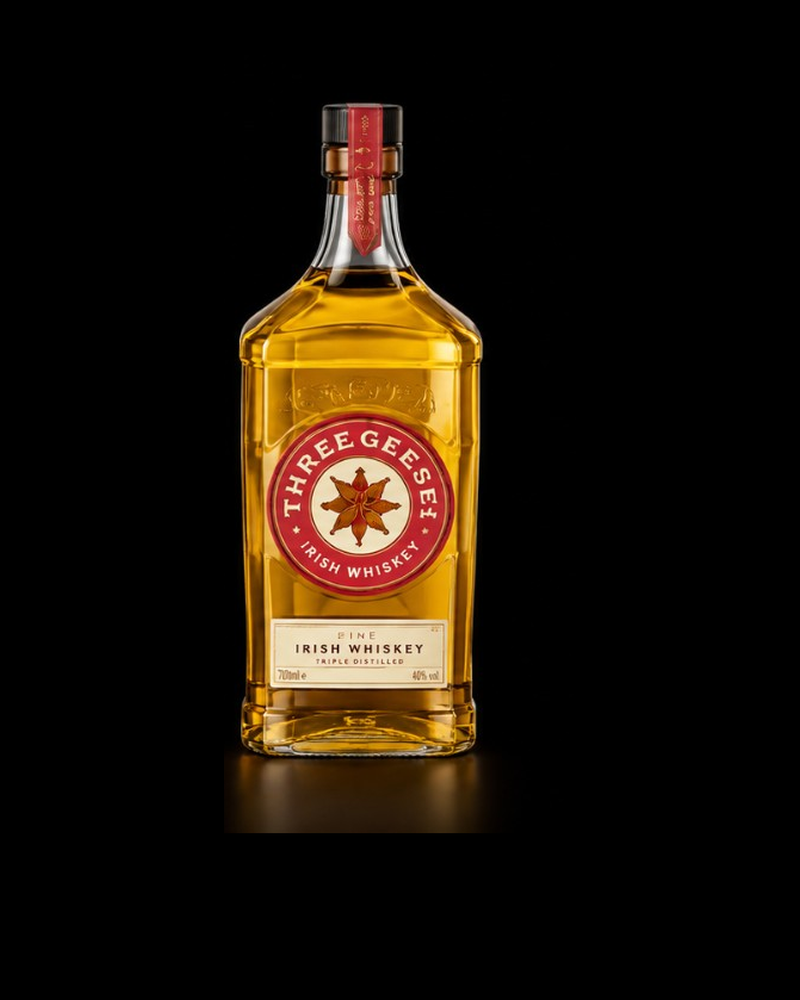
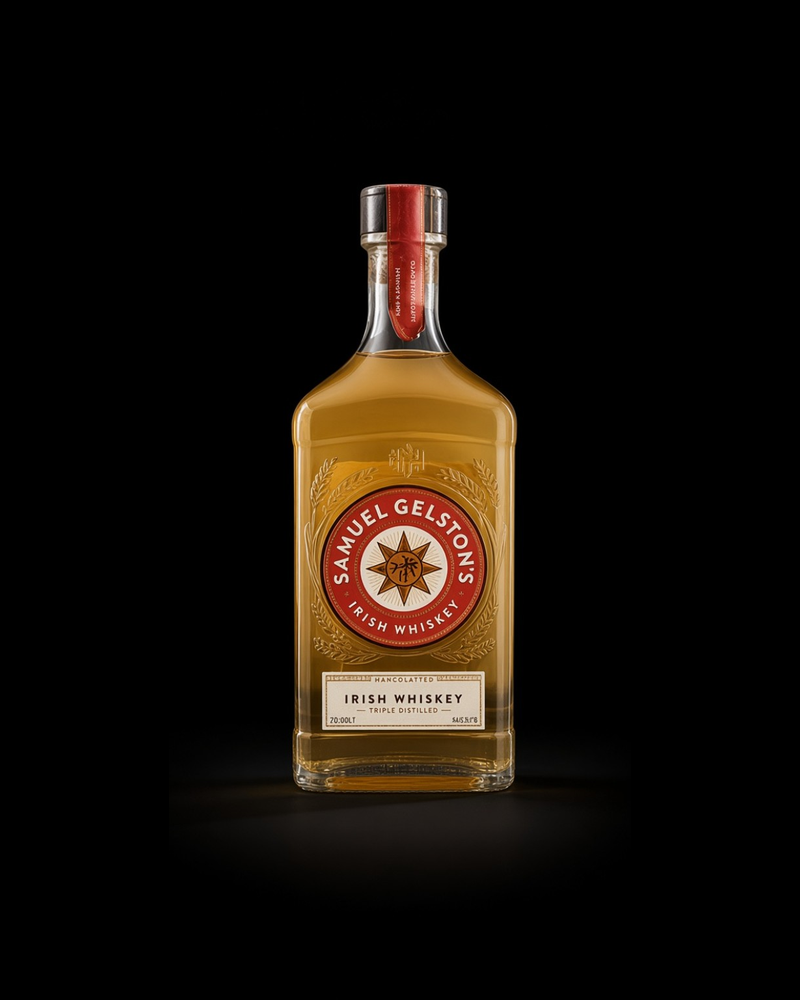
Add files via upload

Changed region(s): [[0.2812, 0.093, 0.6562, 0.868]]

diff --git a/catalog-data.js b/catalog-data.js
@@ -1735,13 +1735,13 @@ window.LBB_CATALOG = [
   },
   {
     "id": "three-gee-see",
-    "name": "Three Gee See Irish Whiskey",
+    "name": "Samuel Gelston's Irish Whiskey",
     "category": "Whisky",
     "categoryId": "whisky",
     "emoji": "🥃",
     "size": "700ml",
     "normalPrice": 0,
-    "initial": "TGS",
+    "initial": "SG",
     "specialPrice": null,
     "specialStart": null,
     "specialEnd": null,
